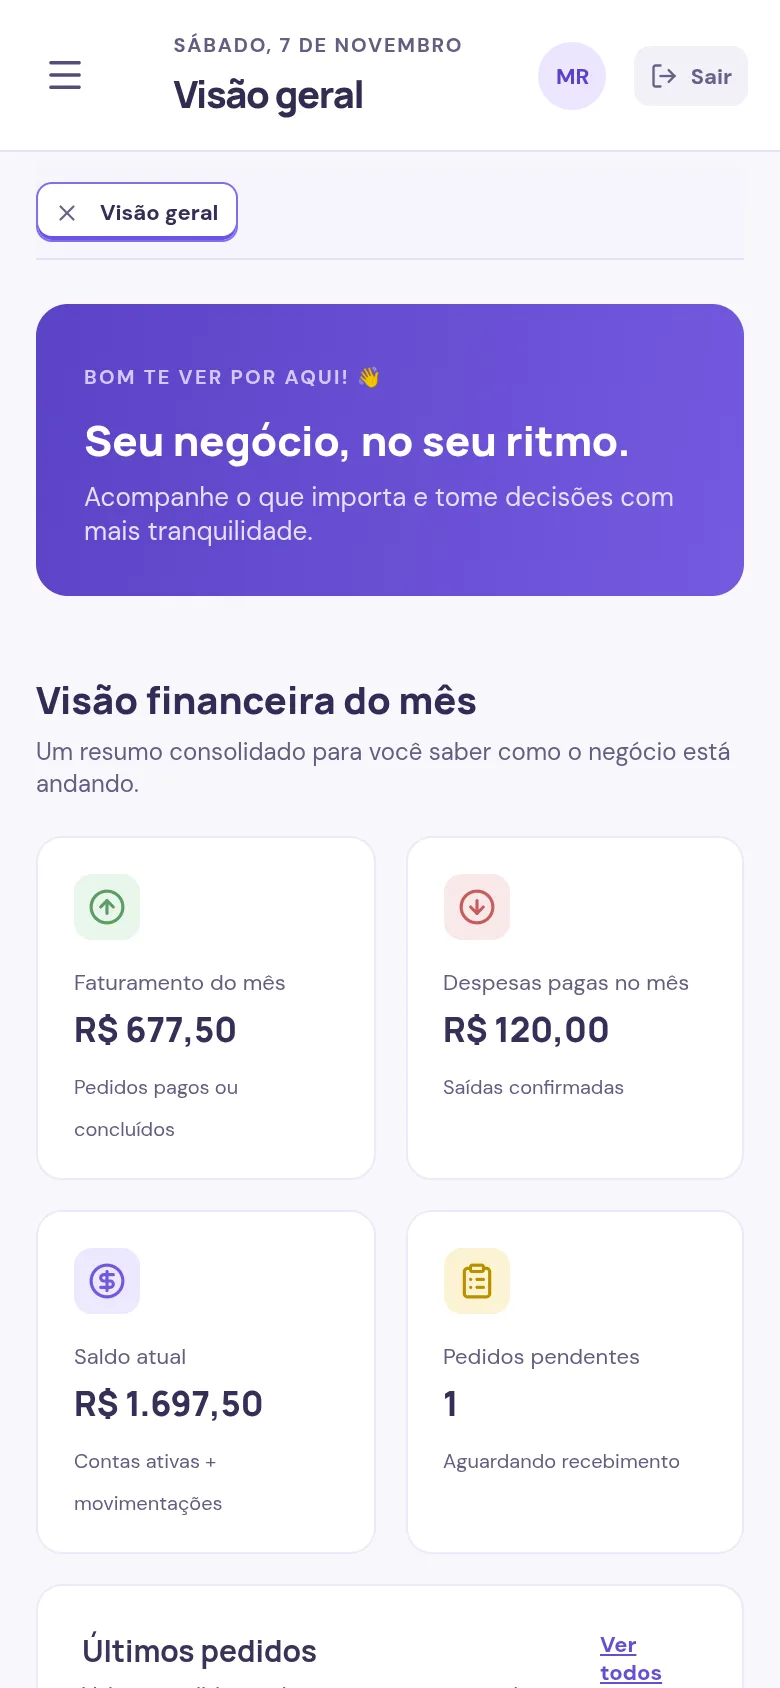
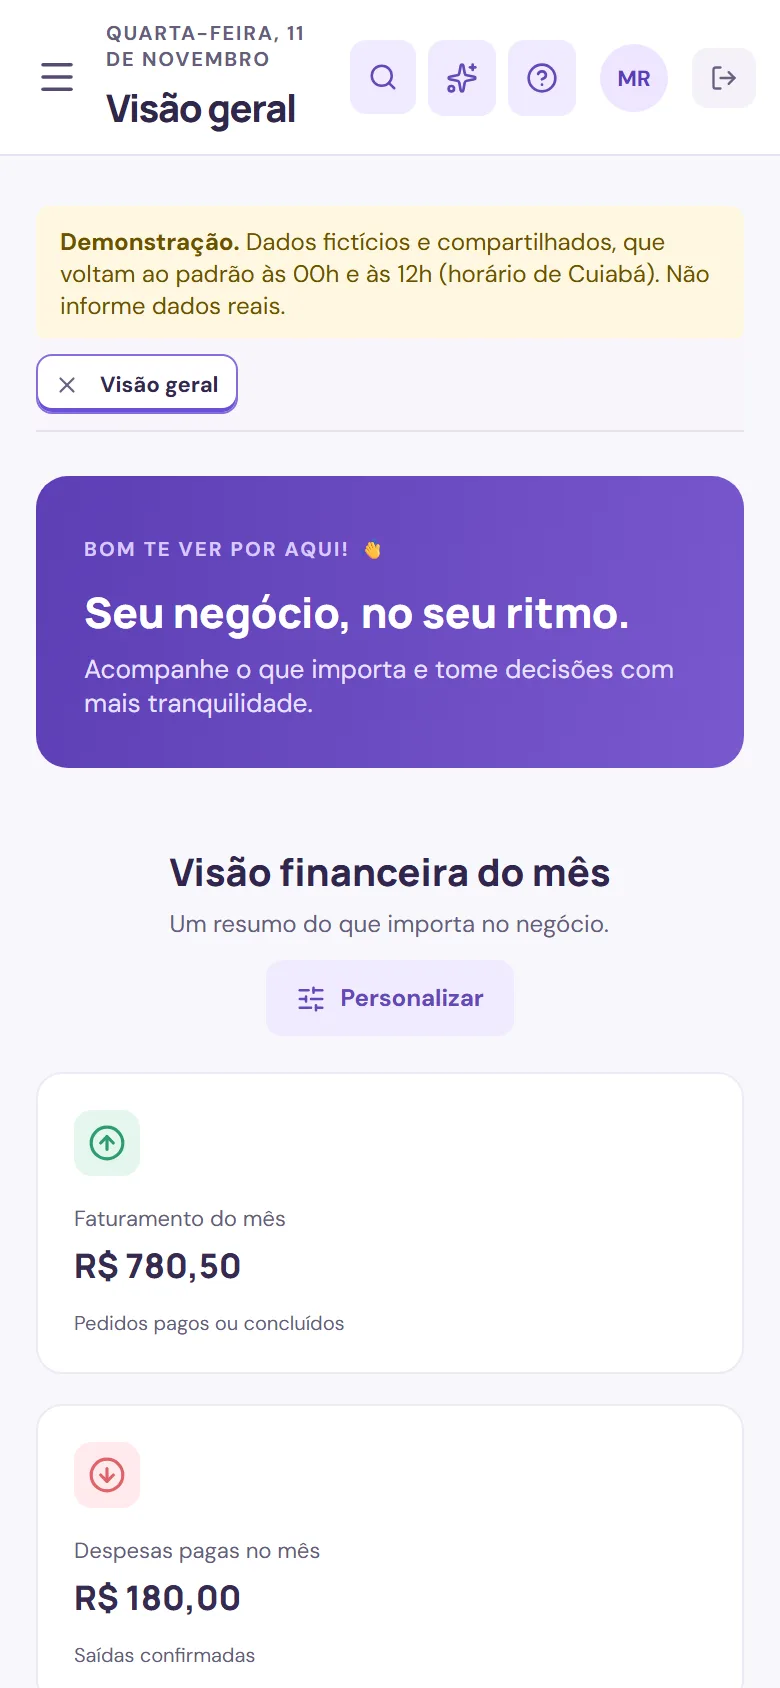
feat: Arandu Gestão concluído, com o CRM como central e o assistente que grava
- Projeto marcado como concluído (11 etapas) e seção "Situação" no lugar
  de "Próximas versões".
- CRM como central (linha do tempo de todos os setores, rastreio dos
  pedidos e anexos de foto, vídeo e áudio), com print novo.
- Assistente: lê foto ou PDF e prepara cadastros e orçamentos que só gravam
  no Confirmar; ditado por voz.
- Números: 303 testes de integração e 118 ponta a ponta, mais 28 roteiros
  do manual. Print do celular atualizado, sem rolagem lateral.

diff --git a/projetos/arandue.html b/projetos/arandue.html
@@ -5,7 +5,7 @@
     <meta name="viewport" content="width=device-width, initial-scale=1.0" />
     <meta
       name="description"
-      content="Arandu Gestão: SaaS de gestão para MEIs com orçamentos, vendas, estoque, compras, financeiro, CRM, agenda, relatórios e manual com vídeos, multiempresa e com permissões por ação."
+      content="Arandu Gestão: SaaS de gestão para MEIs com orçamentos, vendas, estoque, compras, financeiro, CRM com anexos, agenda, relatórios, manual com vídeos e assistente de IA no sistema e no Telegram, multiempresa e com permissões por ação."
     />
     <title>Arandu Gestão · Portfólio Nabor N Silva</title>
     <link rel="shortcut icon" href="../img/favicon.ico" type="image/x-icon" />
@@ -23,14 +23,15 @@
     >
 
     <header class="hero">
-      <p class="eyebrow">Projeto 02 · SaaS full-stack · em evolução contínua</p>
+      <p class="eyebrow">Projeto 02 · SaaS full-stack · concluído</p>
       <h1>Arandu Gestão</h1>
       <p class="lead">
         Gestão para microempreendedores individuais: orçamentos, vendas,
         estoque, compras, financeiro, CRM, agenda e relatórios em um só lugar,
         com dados isolados por empresa, permissões ajustadas a cada pessoa da
-        equipe, um manual com vídeos e um assistente de IA no sistema e no
-        Telegram.
+        equipe, um CRM que reúne o histórico de todos os setores com fotos,
+        vídeos e áudios, um manual com vídeos e um assistente de IA no sistema
+        e no Telegram.
       </p>
       <p class="selo">
         <span aria-hidden="true">🌱</span> Alinhado ao ODS 1 — Erradicação da
@@ -178,6 +179,16 @@
           </figure>
           <figure>
             <img
+              src="../img/arandue/crm-central.webp"
+              alt="Oportunidade no CRM com o rastreio do orçamento e do pedido pago e a linha do tempo com filtros por setor."
+              width="1280"
+              height="800"
+              loading="lazy"
+            />
+            <figcaption>A oportunidade como central: rastreio dos documentos e linha do tempo de todos os setores, com anexos.</figcaption>
+          </figure>
+          <figure>
+            <img
               src="../img/arandue/espelho.webp"
               alt="Orçamento em formato A4 com dados da empresa e do cliente, itens, frete, total e condições, pronto para imprimir."
               width="1265"
@@ -214,7 +225,7 @@
               height="1688"
               loading="lazy"
             />
-            <figcaption>Interface responsiva no celular.</figcaption>
+            <figcaption>Interface responsiva: do celular de 320 px ao monitor, sem rolagem lateral.</figcaption>
           </figure>
         </div>
       </section>
@@ -249,11 +260,12 @@
             >
           </li>
           <li>
-            <strong>Oportunidades e rastreio</strong>
+            <strong>CRM como central</strong>
             <span
               >Funil configurável que avança sozinho com os documentos. Cada
-              orçamento e pedido mostra de onde veio, e a oportunidade ganha
-              vira cliente sem duplicar cadastro.</span
+              oportunidade reúne atendimentos, o histórico dos orçamentos, o
+              rastreio dos pedidos (entrega e recebimento) e anexos de foto,
+              vídeo, áudio e arquivo, com filtro por setor.</span
             >
           </li>
           <li>
@@ -320,9 +332,10 @@
             <strong>Assistente de IA</strong>
             <span
               >Chat no sistema e bot no Telegram que respondem com base no
-              manual e consultam faturamento, contas e estoque com as mesmas
-              permissões de quem pergunta. Consumo por empresa, com limite
-              mensal em reais.</span
+              manual, consultam faturamento, contas e estoque e leem a foto ou o
+              PDF de um documento para preparar cadastros e orçamentos. Nada é
+              gravado sem o clique em Confirmar. Ditado por voz no chat e
+              consumo por empresa, com limite mensal em reais.</span
             >
           </li>
           <li>
@@ -397,8 +410,8 @@
       <section aria-labelledby="titulo-qualidade">
         <h2 id="titulo-qualidade">Segurança e qualidade</h2>
         <ul class="numeros">
-          <li><strong>289</strong><span>testes automatizados de integração</span></li>
-          <li><strong>113</strong><span>testes ponta a ponta no navegador, 28 deles gravam o manual</span></li>
+          <li><strong>303</strong><span>testes automatizados de integração</span></li>
+          <li><strong>118</strong><span>testes ponta a ponta no navegador, mais 28 roteiros que gravam o manual</span></li>
           <li><strong>100</strong><span>em acessibilidade no Lighthouse (celular e desktop)</span></li>
           <li><strong>~137 KB</strong><span>de JavaScript inicial (gzip)</span></li>
         </ul>
@@ -410,13 +423,21 @@
           <li>No ar com usuário de banco sem poder de alterar a estrutura e RLS em todas as tabelas.</li>
           <li>Histórico protegido: CPF/CNPJ, e-mail, telefone, endereço e senha aparecem só como "alterado", sem guardar o valor.</li>
           <li>Assistente de IA sem acesso extra: cada consulta passa pela permissão da tela equivalente. O bot do Telegram vincula a conta por código de uso único e o webhook só aceita o segredo cadastrado.</li>
+          <li>Ações do assistente em duas etapas: a IA só prepara um resumo, e o clique em Confirmar grava pelo mesmo serviço da tela, uma única vez, com registro na auditoria.</li>
+          <li>Anexos em armazenamento privado: o navegador envia direto por URL assinada, e os links para ver ou baixar valem 15 minutos.</li>
         </ul>
       </section>
 
       <section aria-labelledby="titulo-proximos">
-        <h2 id="titulo-proximos">Próximas versões</h2>
+        <h2 id="titulo-proximos">Situação</h2>
+        <p>
+          Projeto concluído em 11 etapas, do cadastro ao assistente de IA, com o
+          planejamento de cada uma documentado no repositório. Ideias para uma
+          próxima fase:
+        </p>
         <ol class="roteiro">
-          <li><strong>Assistente que grava:</strong> cadastrar cliente e criar rascunho de orçamento pelo chat ou pelo Telegram, só depois do clique em Confirmar.</li>
+          <li><strong>Áudio no Telegram:</strong> transcrever mensagens de voz no servidor.</li>
+          <li><strong>Memória por empresa:</strong> o assistente guardar fatos que o cliente pedir.</li>
         </ol>
       </section>
     </main>

diff --git a/index.html b/index.html
@@ -48,8 +48,8 @@
           <span class="botao-projeto__eyebrow">Projeto 02 · SaaS full-stack</span>
           <span class="botao-projeto__texto">Arandu Gestão</span>
           <span class="botao-projeto__descricao"
-            >Orçamentos, vendas, financeiro e CRM para MEIs, com multiempresa
-            e permissões para cada pessoa da equipe.</span
+            >Orçamentos, vendas, financeiro e CRM para MEIs, com multiempresa,
+            permissões para cada pessoa da equipe e assistente de IA.</span
           >
           <span class="botao-projeto__acao"
             >Conhecer projeto <span aria-hidden="true">→</span></span
